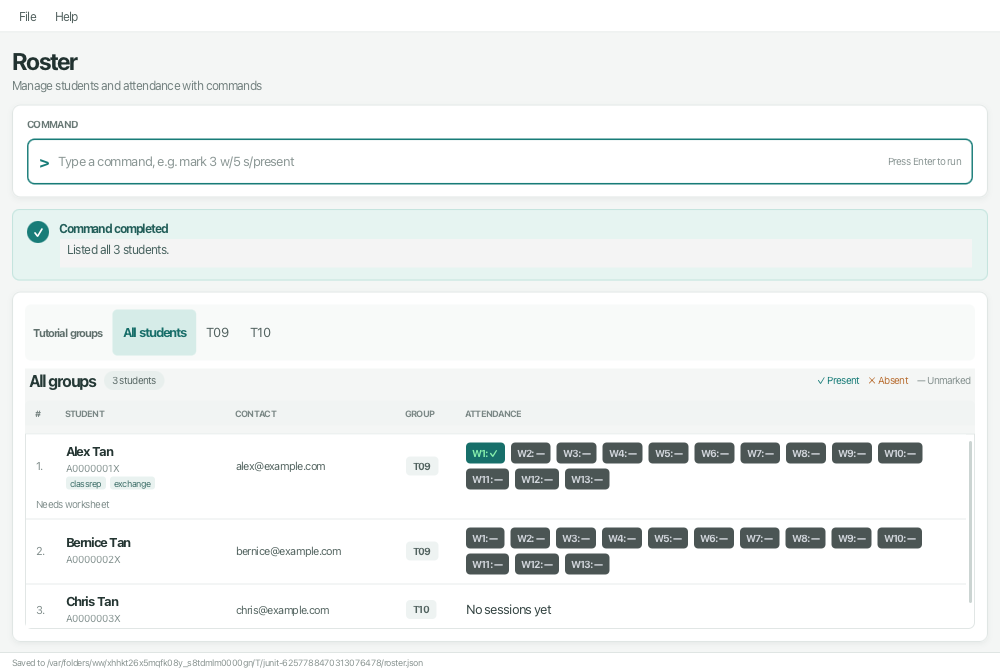
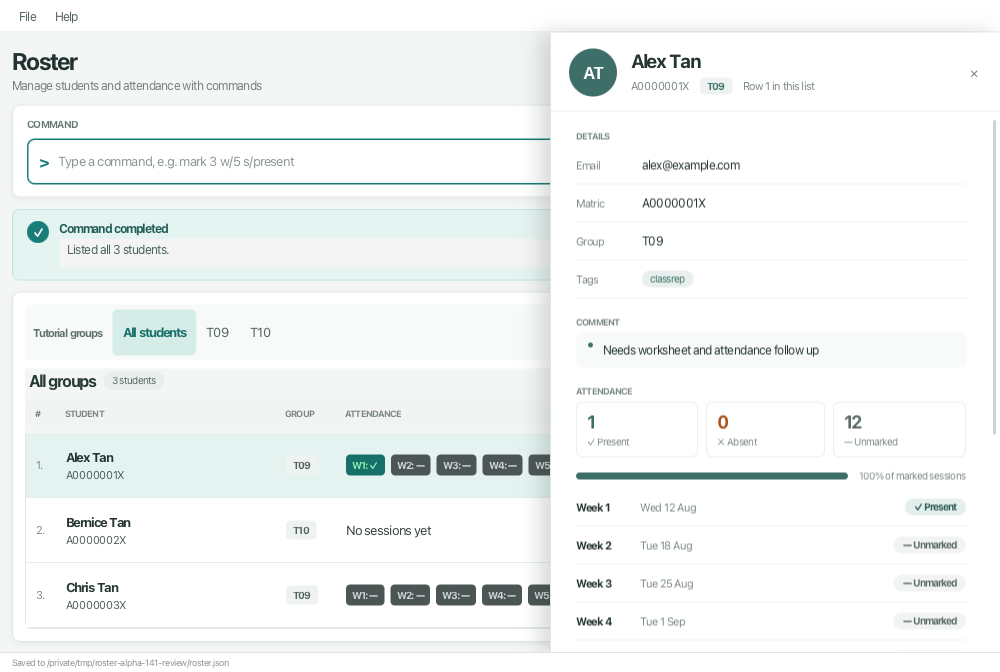
Prepare integrated v1.4.1 alpha release

diff --git a/src/main/java/seedu/address/MainApp.java b/src/main/java/seedu/address/MainApp.java
@@ -32,7 +32,7 @@ import seedu.address.ui.UiManager;
  */
 public class MainApp extends Application {
 
-    public static final String VERSION = "V1.4";
+    public static final String VERSION = "V1.4.1";
 
     private static final Logger logger = LogsCenter.getLogger(MainApp.class);
     private static final Path USER_PREFS_FILE_PATH = Paths.get("preferences.json");

diff --git a/docs/DeveloperGuide.md b/docs/DeveloperGuide.md
@@ -75,7 +75,7 @@ The **API** of this component is specified in [`Ui.java`](https://github.com/AY2
 
 ![Structure of the UI Component](images/UiClassDiagram.png)
 
-The UI consists of a `MainWindow` and its parts, such as `CommandBox`, `ResultDisplay`, `GroupListPanel`, `PersonListPanel`, and `StatusBarFooter`. All of these, including `MainWindow`, inherit from the abstract `UiPart` class, which captures common behavior among classes that represent visible GUI parts.
+The UI consists of a `MainWindow` and its parts, such as `CommandBox`, `ResultDisplay`, `GroupListPanel`, `PersonListPanel`, `StudentDetailPanel`, and `StatusBarFooter`. All of these, including `MainWindow`, inherit from the abstract `UiPart` class, which captures common behavior among classes that represent visible GUI parts.
 
 * `GroupListPanel` lists **All students** and registered groups in a horizontal strip. Choosing an entry
   runs the matching `list` command. Up/Down are retained as aliases for horizontal selection, and Enter
@@ -83,7 +83,13 @@ The UI consists of a `MainWindow` and its parts, such as `CommandBox`, `ResultDi
 * `PersonListPanel` binds the displayed-student count and shows one `PersonCard` per displayed student.
   Card width follows the list cell's available width; the attendance flow measures height using its
   current width, so all teaching weeks wrap instead of causing horizontal overflow or oversized rows.
-  Comments remain visible below the row's details, and long tags have tooltips.
+* `StudentDetailPanel` displays the chosen student's email, tags, comment notes and attendance summary.
+  `PersonListPanel` reports a clicked row or Enter selection to `MainWindow` without changing the model.
+  After each successful command, `MainWindow` refreshes the panel by matriculation number; an edit's
+  `CommandResult` also identifies the updated student when their number changes. If the student is no
+  longer displayed, the panel closes. Escape closes it unless completion suggestions are open.
+  `AttendanceSummary` counts sessions of the student's own group and excludes unmarked sessions from
+  the attendance percentage.
 * `CommandBox` suggests command words, prefixes and values using `FieldCompletion`. Its border and
   `ResultDisplay`'s banner receive consistent success/error state from `MainWindow`, including commands
   invoked through navigation and undo shortcuts. Changing the input clears its previous highlight.
@@ -923,8 +929,12 @@ relative to that launch folder. Keep backups of any real data outside the test f
    count to follow the displayed list. Leave a draft command in the input while navigating; it must remain
    unchanged. Use Left/Right and Up/Down to choose groups, then Enter to open them.
 3. Give a student a long name, email, tag and comment, and create sessions for all 13 teaching weeks.
-   At 740 by 600 and larger window sizes, details and attendance must wrap within the student row.
-   All weeks remain reachable by vertical scrolling. Hover over a shortened tag to see the full text.
+   At 740 by 600 and larger window sizes, attendance must wrap within the student row.
+   Click the row or select it and press Enter to read email, tags, comments and individual sessions in
+   the detail panel. Scroll within the panel to reach all 13 weeks. Verify that the × button is visible
+   and closes the panel; Escape should also close it after any completion popup has been dismissed.
+   Run `comment`, `mark`, `editsession`, `undo` and `redo` while details are open and check that they
+   refresh. Filtering out or deleting the student must close the panel.
 4. Add a student at the beginning, middle and end of a long roster, and after an empty search. At 1000
    by 700, a normal student's complete highlighted row must be visible, including all 13 attendance cells.
 5. Make an undoable edit, run an invalid command, then invoke the undo shortcut from outside the command
@@ -1030,7 +1040,7 @@ Prepare the data from [Recording attendance](#recording-attendance), then run `l
 1. Run `comment 1 c/attentive`, then `comment 1 c/asks good questions`.
    Expected: John's comment reads `attentive; asks good questions`.
 2. Run `comment 1 c-/needs help`. Expected: the comment is replaced by `needs help`.
-3. Run `comment 1 c-/`. Expected: the comment is cleared and disappears from John's card.
+3. Run `comment 1 c-/`. Expected: the comment is cleared and John's detail panel shows **No comment yet**.
 4. Try `comment 1`, `comment 1 c/a c-/b` and a `c/` note that would make the comment longer than 200 characters.
    Expected: an error each time, with the comment unchanged.
 

diff --git a/docs/UserGuide.md b/docs/UserGuide.md
@@ -121,10 +121,19 @@ The command box also changes its border to indicate success or failure. Starting
 input highlight; the banner keeps the previous feedback until the next action.
 
 The badge beside the roster heading counts the students currently displayed, so it changes when you
-search or switch tutorial groups. Each row shows student details, tags, group and attendance, with a
-comment underneath when one is present. Long names, email addresses, comments and attendance strips
-wrap within the row. Hover over a shortened tag to read its full text. Scroll vertically to reach
-additional students or the rest of a tall row.
+search or switch tutorial groups. Each row shows the student's name, matriculation number, group and
+attendance. Scroll vertically to reach additional students or the rest of a tall attendance row.
+
+Click a student row to open their details on the right, or focus the student list, select a row with
+the arrow keys and press Enter. The panel shows their email, tags, comments, and attendance by session.
+The attendance percentage counts only marked sessions; unmarked sessions are shown separately.
+Scroll inside the panel to read later sessions. Click another row to switch students.
+
+Close the panel with its × button or Escape to see the full roster and command box again. If command
+completion suggestions are open, Escape dismisses those first. Opening or closing details does not
+change the roster, active group, or displayed row numbers. Successful commands refresh an open panel;
+it closes if its student is no longer displayed. After undoing a matriculation-number edit, reopen the
+student's row to view their restored details.
 
 ### Completing command fields
 
@@ -298,7 +307,7 @@ The group must already exist. Listing an empty group is allowed; listing a nonex
 | Empty roster               | `No students in Roster. Create a tutorial group and add students to get started.` |
 | Unknown group              | `Tutorial group T09 does not exist. Create it first with: init grp/T09`           |
 
-Each student's card shows their details and attendance for every session of their group, in teaching-week order:
+Each student's card shows their name, matriculation number, group and attendance for every session of their group, in teaching-week order:
 A green `✓` means present, a red `✗` means absent, and a grey `—` means unmarked.
 A student added after a session also shows `—` until their attendance is recorded. Weeks with no session have no cell. The list scrolls when needed.
 
@@ -354,7 +363,11 @@ Format: `find [n/KEYWORD] [m/MATRIC] [grp/GROUP]`
   may contain only a subset of that group's students.
 * Name-only searches retain feedback such as `Found 2 student(s) matching "John".` Other searches report
   the result count and normalized filters, for example `Found 1 student(s) matching filters: n/"John" grp/T09.`
-  No-match searches show an empty list and feedback suggesting another name or filter.
+  No-match searches show an empty list. If a name was supplied, Roster may suggest up to three similar
+  names with their matriculation numbers. Suggestions respect any matriculation-number and group filters.
+  They are hints only: run another search using the suggested name or matriculation number to display
+  that student before using an index-based command. For example, `find n/srah` may suggest Sarah.
+  If no names are sufficiently similar, Roster asks you to try another name or filter.
 * Blank or malformed values, repeated prefixes, unsupported parameters, text before the first prefix,
   and `find` without filters are rejected without changing the displayed list or active group.
 * `mark INDEX`, `delete INDEX` and `edit INDEX` use the displayed result indexes. Deleting a student refreshes
@@ -627,9 +640,9 @@ Manual edits can also produce unexpected behavior if values do not follow Roster
 
 --------------------------------------------------------------------------------------------------------------------
 
-## Known issues
+## Help window
 
-1. **If you minimize the Help Window** and run `help` again, the original window remains minimized and no new Help Window appears. Restore the minimized Help Window manually.
+Running `help` again restores the existing Help window if it is minimized and brings it to the front.
 
 --------------------------------------------------------------------------------------------------------------------
 
